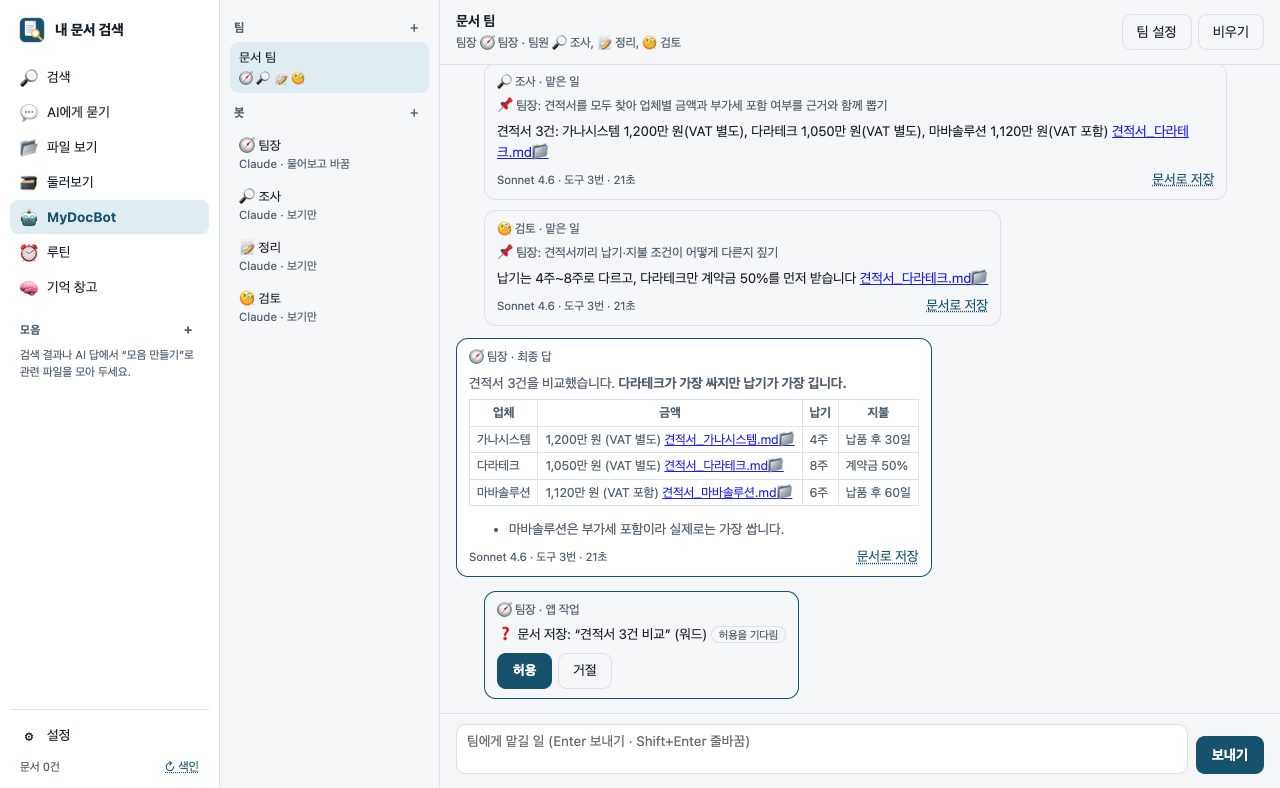
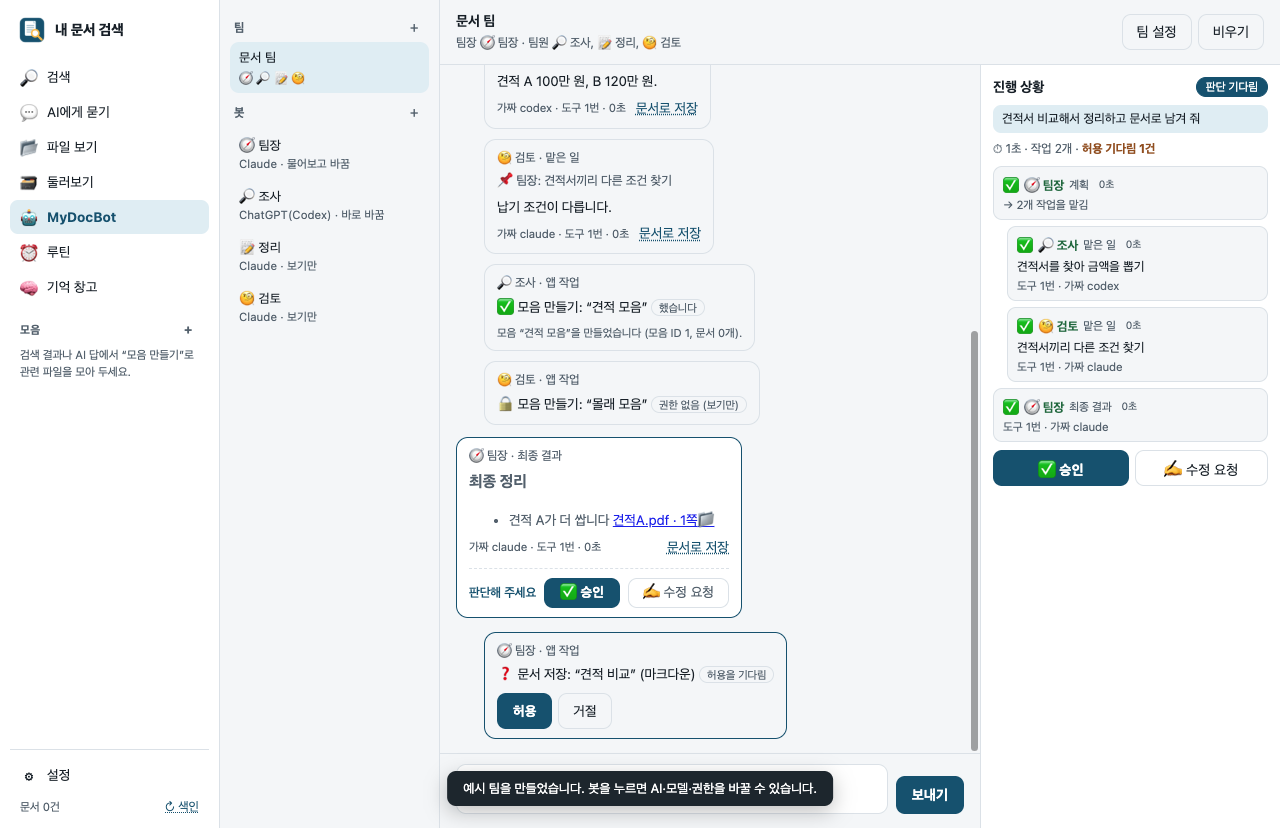
README: MyDocBot 팀장이 알아서 진행 · 진행 상황 · 승인/수정 요청

diff --git a/README.md b/README.md
@@ -11,7 +11,7 @@
 | 🧭 **뜻으로 찾기** | 질문에 그 단어가 없어도 뜻이 비슷한 문서, 사진·영상도 이름이 아니라 내용으로 |
 | 💬 **묻기** | 내 구독 AI가 문서를 직접 찾아 읽고 답, 근거를 누르면 원문의 그 쪽·셀에 형광펜 |
 | ✅ **맞춰 보기** | 점검표 대조(항목마다 ✅·⚠·❌), 최종·최최종 버전 묶기와 비교 |
-| 🤖 **봇 팀** | MyDocBot: 팀장 봇이 일을 나눠 팀원 봇들에게 맡기고, 결과를 모아 근거와 함께 답 (0.3.15부터) |
+| 🤖 **봇 팀** | MyDocBot: 팀장 봇에게 일만 던지면 알아서 나눠 맡기고 검토·재지시까지. 나는 진행을 지켜보고 결과를 승인·수정 요청만 (0.3.15부터) |
 | 🗂 **모으고 쓰기** | 모음(가상 폴더) → 주간업무보고·결과보고서 초안을 워드로, 루틴으로 정해진 시각에 자동 |
 | 🔒 **지키기** | 색인은 PC 안에만, 민감 정보 문서는 AI에게 보내지 않음, AI에 보낸 내역 기록 |
 
@@ -127,14 +127,18 @@ MausBot처럼 여러 AI 봇을 굴리는 다른 앱에는 **AI 봇 (MausBot 등)
 
 ### 10. MyDocBot — AI 봇 팀 (0.3.15부터)
 
-여러 AI 봇을 한 팀으로 굴립니다. 팀에 일을 맡기면 **팀장 봇**이 일을 나눠 팀원 봇들에게 맡기고, 팀원들이 **동시에** 내 문서를 찾아 읽은 뒤,
-팀장이 결과를 모아 **근거 링크가 달린** 답을 씁니다. 간단한 질문이면 팀장이 바로 답합니다.
+여러 AI 봇을 한 팀으로 굴립니다. **팀장 봇에게 일만 던지면** 알아서 진행합니다.
 
-![MyDocBot — 팀장이 나눠 맡기고 모아 답함](docs/mydocbot.png)
+- 팀장이 일을 나눠 팀원 봇들에게 맡기고, 팀원들이 **동시에** 내 문서를 찾아 읽습니다.
+- 팀장이 결과를 **검토**해 빠지거나 틀린 게 있으면 다시 맡깁니다 (최대 3차). 맞는 팀원이 없으면 이번 일에만 쓰는 **임시 팀원**을 만듭니다.
+- 봇은 나에게 되묻지 않고 가정을 밝히며 끝까지 하고, **근거 링크가 달린 최종 결과**(결론 · 근거 · 확인할 점)를 냅니다.
+- 나는 오른쪽 **진행 상황** 칸에서 누가 무엇을 하는지 지켜보고, 결과를 보고 **✅ 승인** 또는 **✍ 수정 요청**만 하면 됩니다. 수정 요청은 의견대로 다시 진행합니다.
+
+![MyDocBot — 팀장이 알아서 진행, 오른쪽은 진행 상황, 결과는 승인·수정 요청](docs/mydocbot.png)
 
 1. 왼쪽 **🤖 MyDocBot** → **예시 팀 만들기**: 팀장·조사·정리·검토 봇과 ‘문서 팀’이 생깁니다.
 2. 아래 칸에 맡길 일을 적고 Enter. 예: “이번 달 견적서들 비교해서 표로 정리하고 문서로 남겨 줘”
-3. 답의 근거 링크를 누르면 원문의 그 위치가 열리고, 답마다 **문서로 저장**(워드)이 있습니다. 일하는 중에는 **멈추기**.
+3. 답의 근거 링크를 누르면 원문의 그 위치가 열리고, 답마다 **문서로 저장**(워드)이 있습니다. 일하는 중에는 **멈추기**(진행 상황 칸에도 있음).
 
 **봇마다** 이름·역할(지시)·AI(Claude·ChatGPT·Gemini)·모델을 고릅니다. 봇 이름을 누르면 바꿀 수 있습니다.
 
